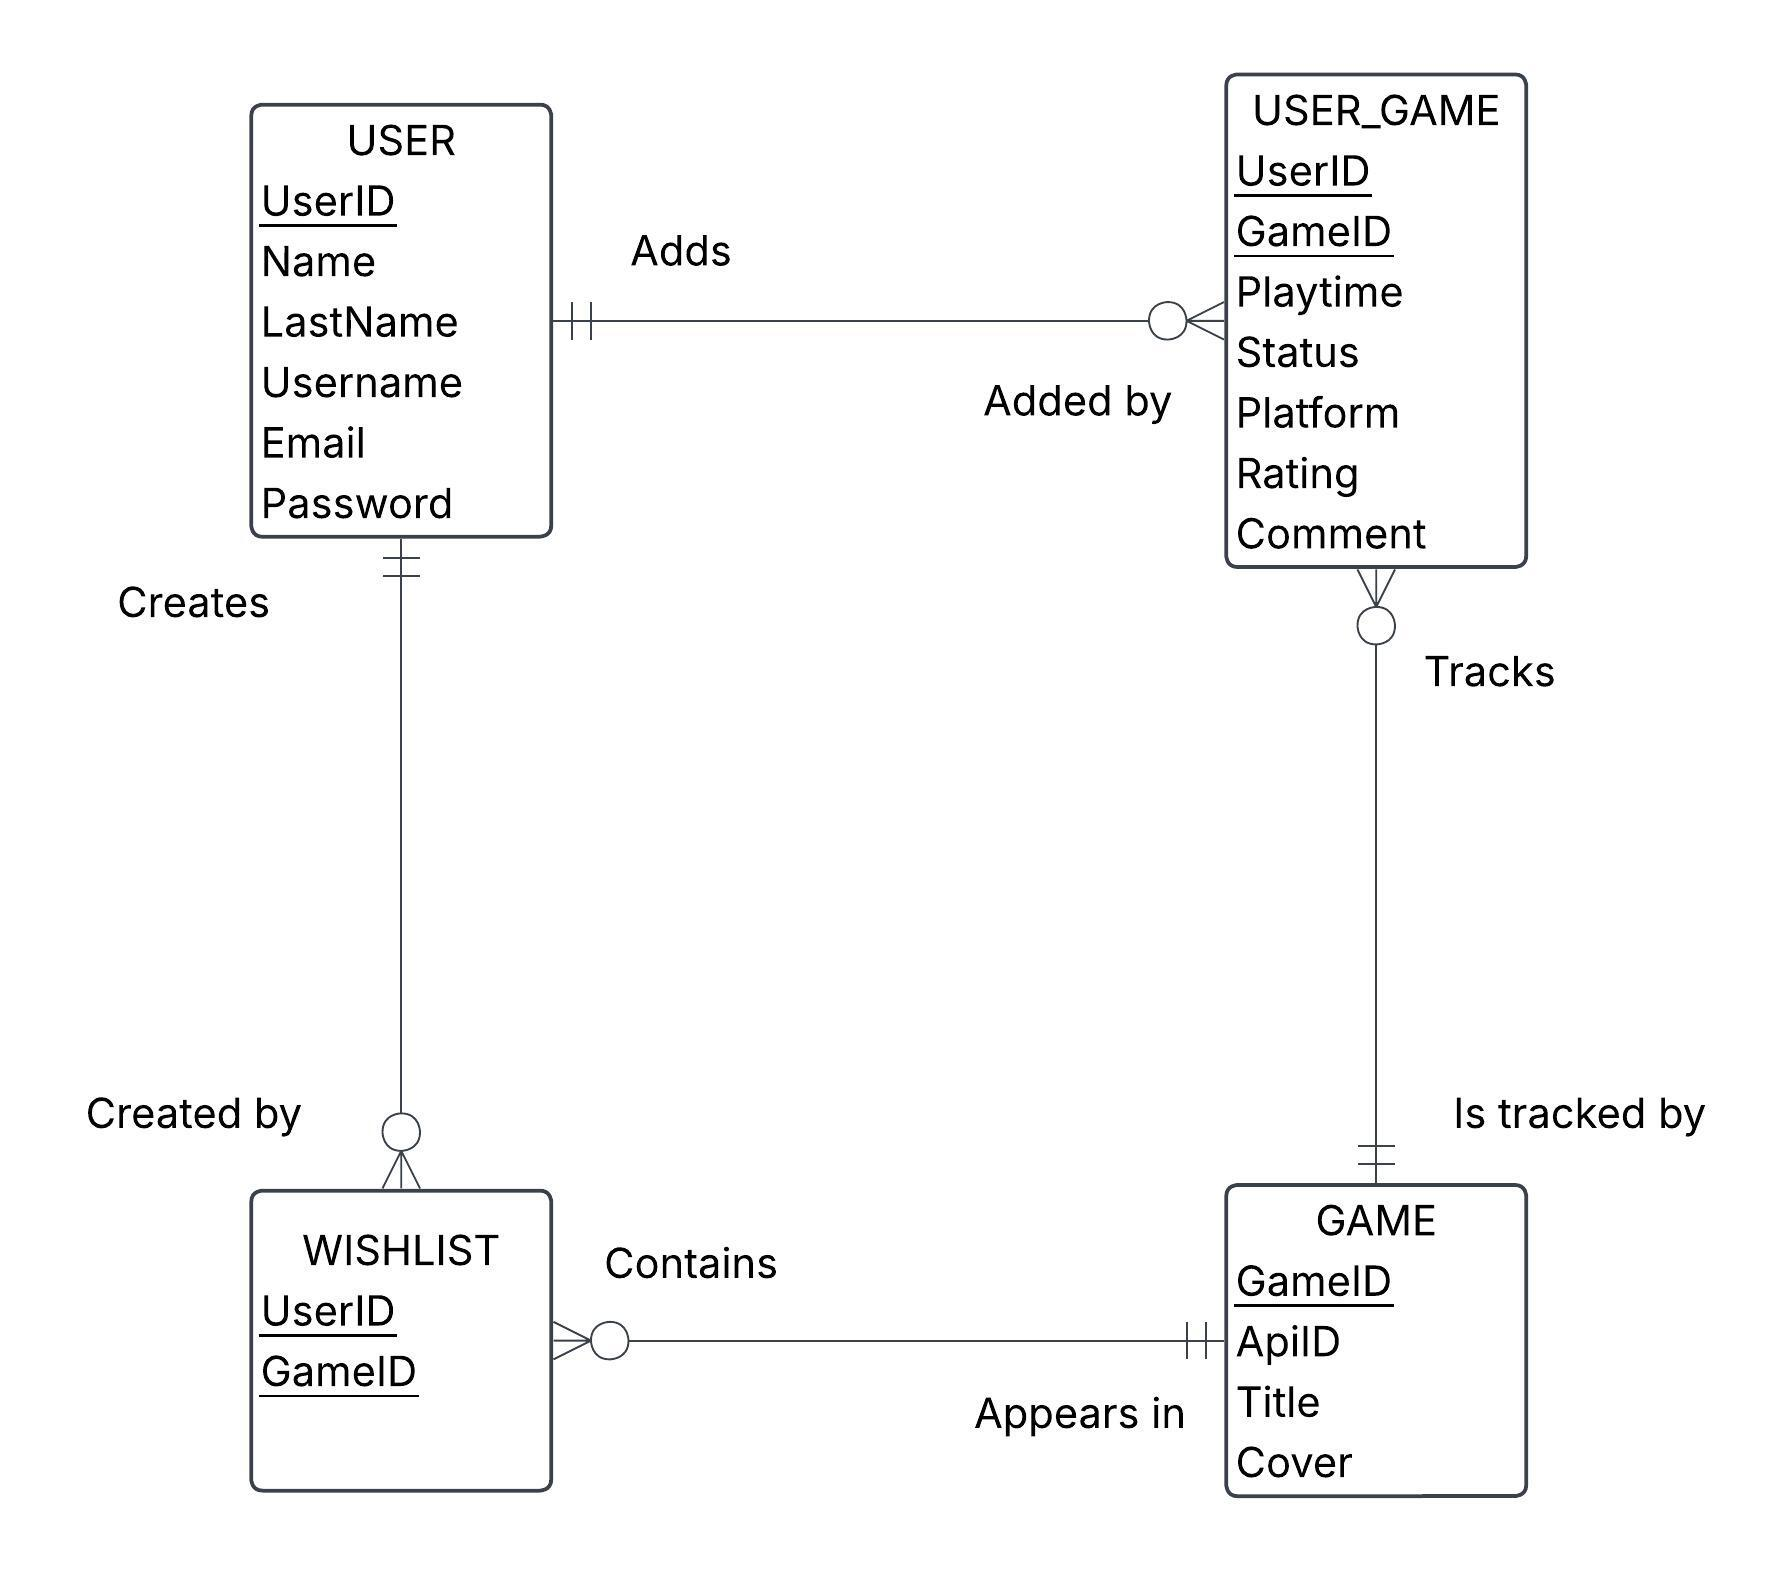
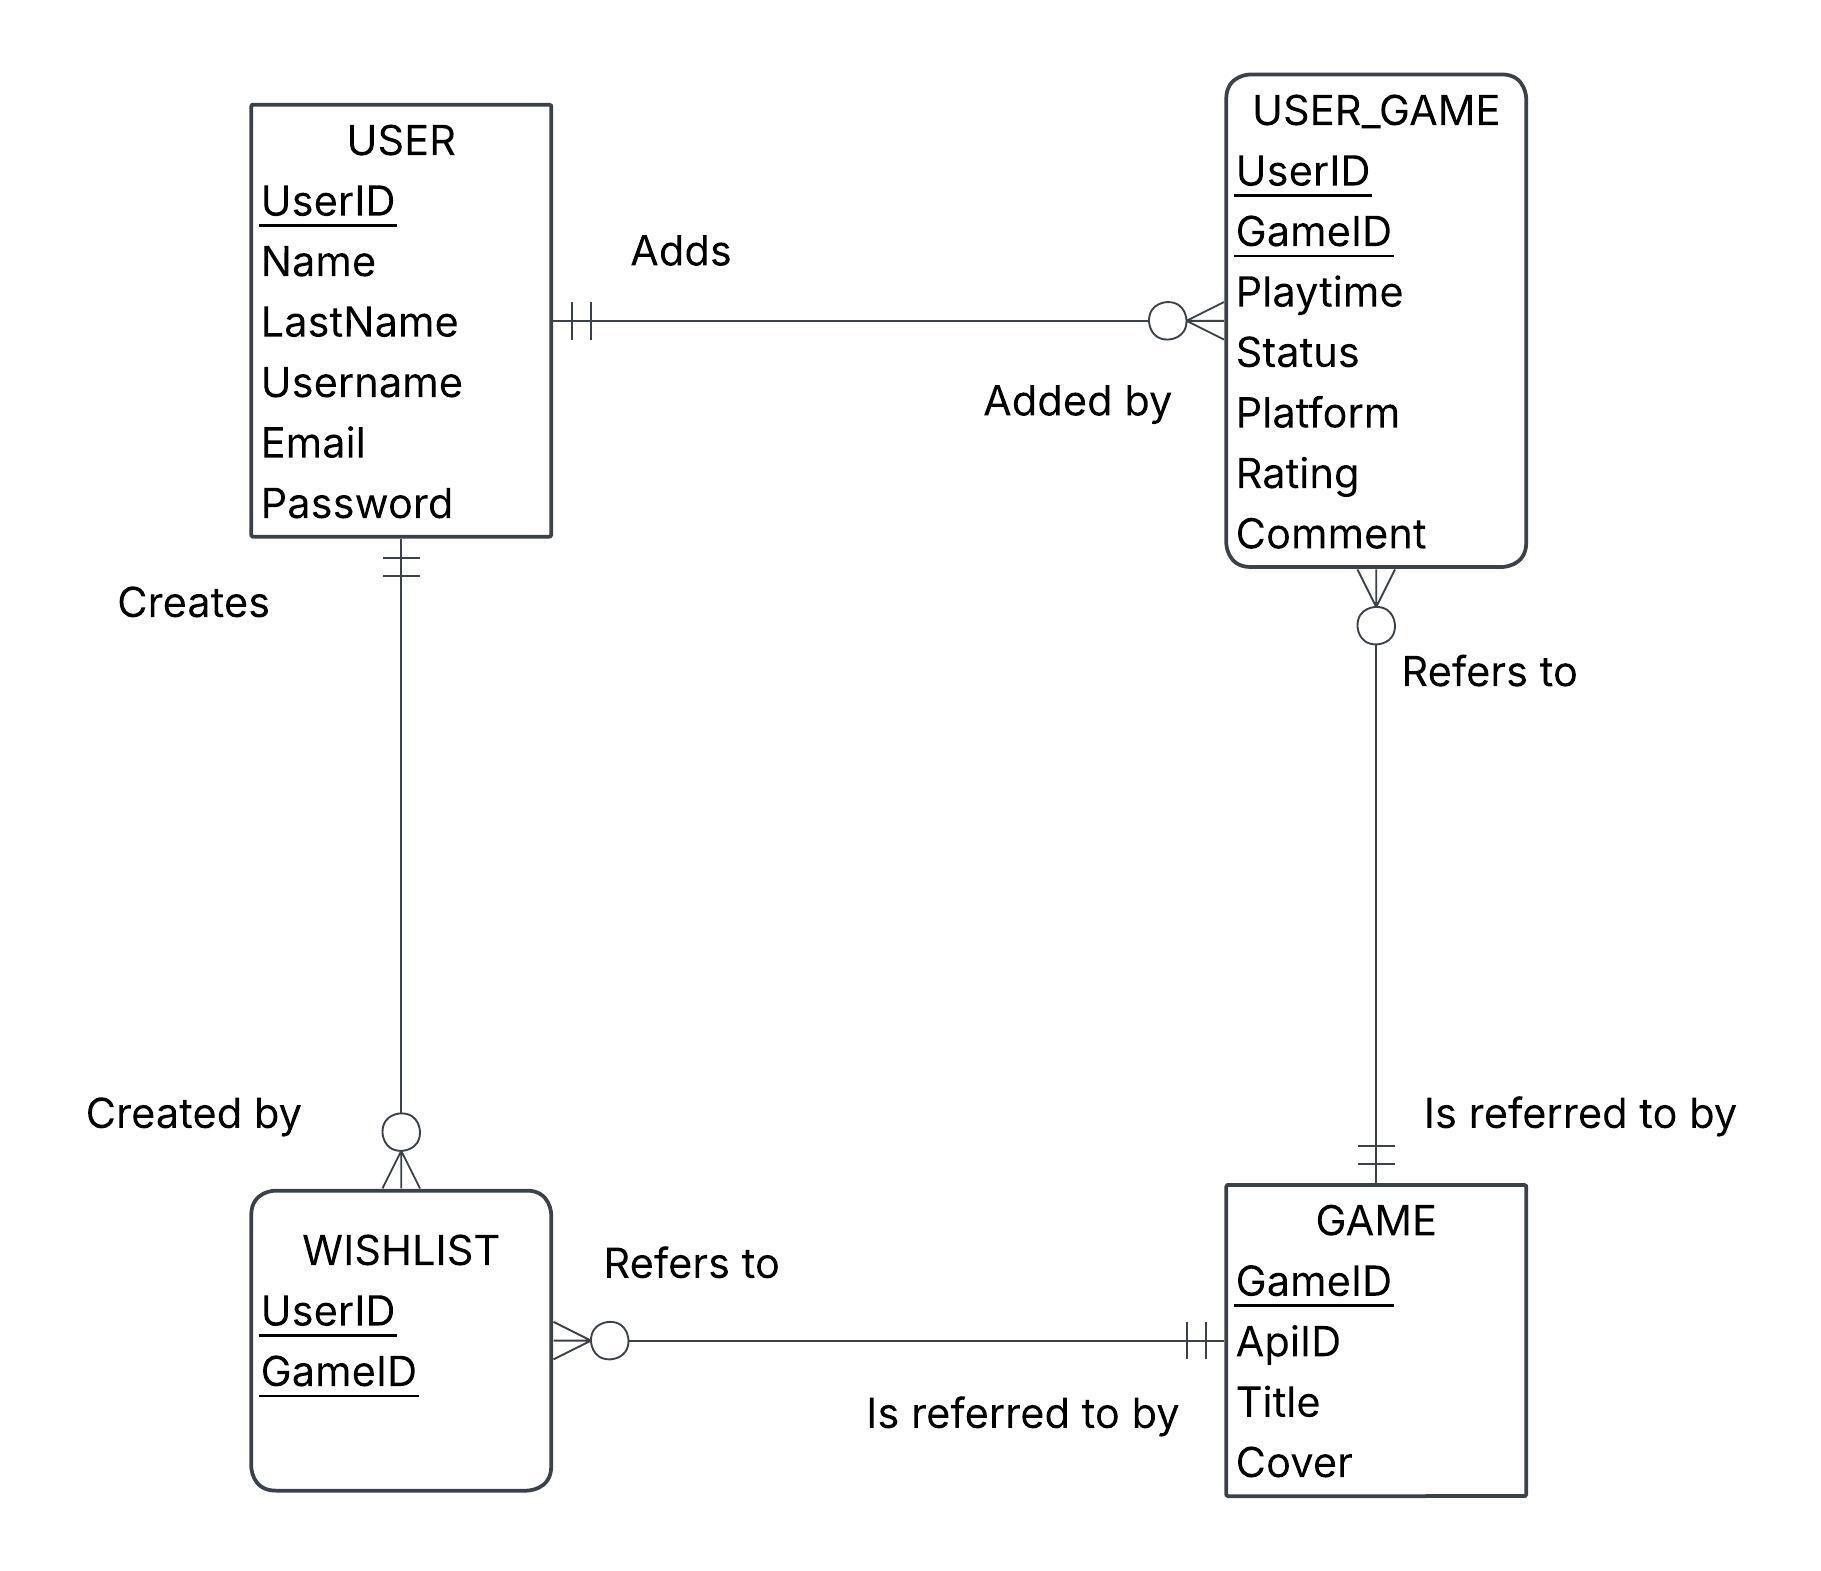
update business rules and ERD in readme file add database relations to readme file

diff --git a/README.md b/README.md
@@ -34,12 +34,19 @@ These would be the basic functions of the project for now,
 but I would like to enhance it further by adding different features over time.
 
 ## Business Rules
-* A user may add zero or many games to their library.
-* A game may be added to the library of zero or many users.
+* A user may add zero or many user_game records.
+* Each user_game record must belong to exactly one user.
+* A game may appear in zero or many user_game records.
+* Each user_game record must refer to exactly one game.
 * A user may add zero or many games to their wishlist.
-* A game may be added to zero or many wishlists.
+* Each wishlist record must belong to exactly one user.
+* A game may appear in zero or many wishlist.
+* Each wishlist record must refer to exactly one game.
+
 
 Here is an `ERD` that illustrates better the entities and attributes of this project.
 
 ![ERD of gameshelf](/Images/GameShelf-Chart.jpeg)
 
+Here are my database relations.
+![Relations for gameshelg](/Images/Relations-for-gameshelf.jpeg)
